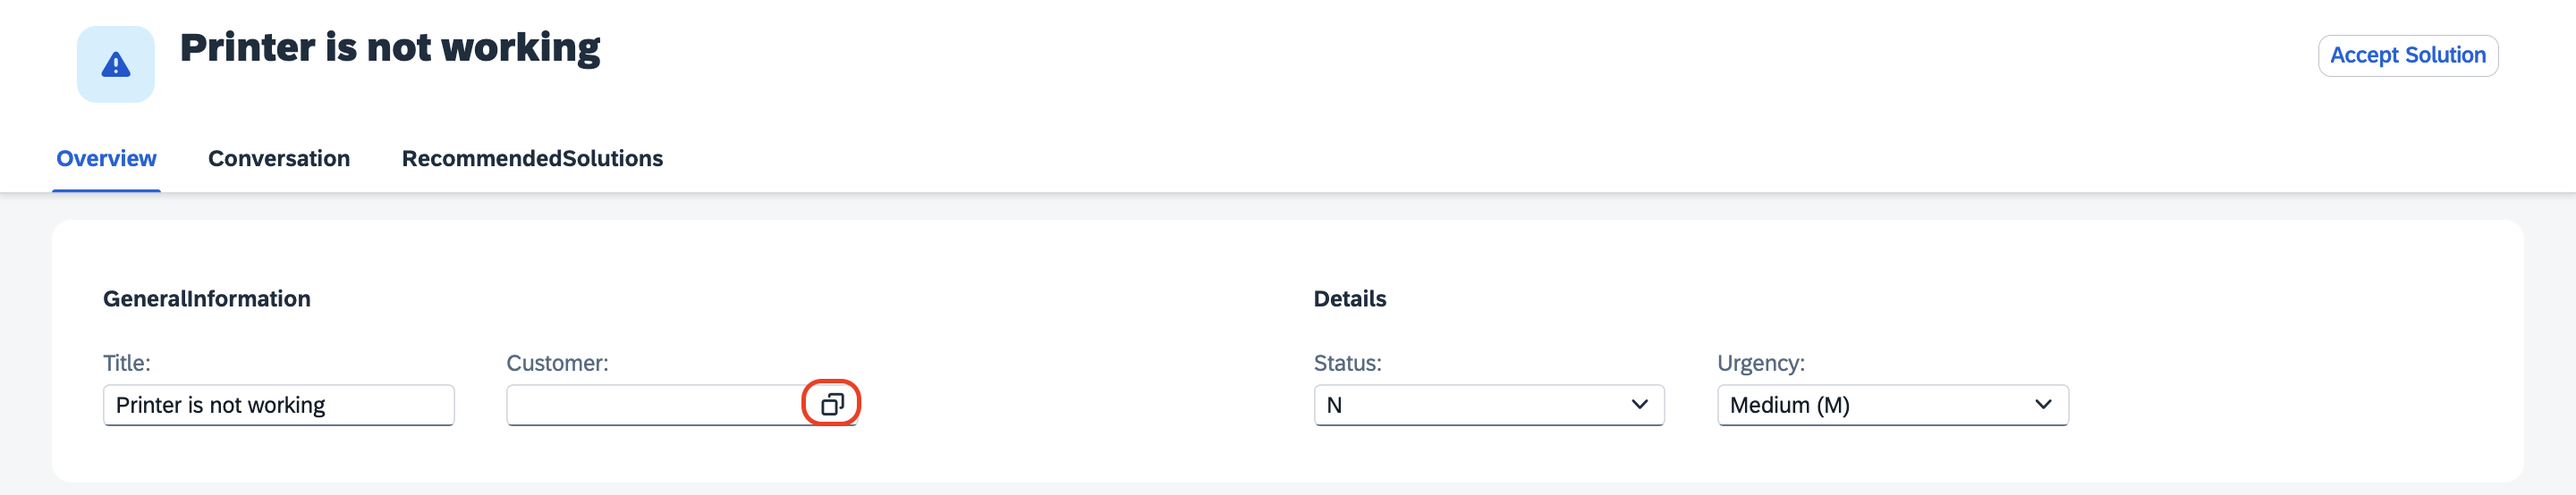
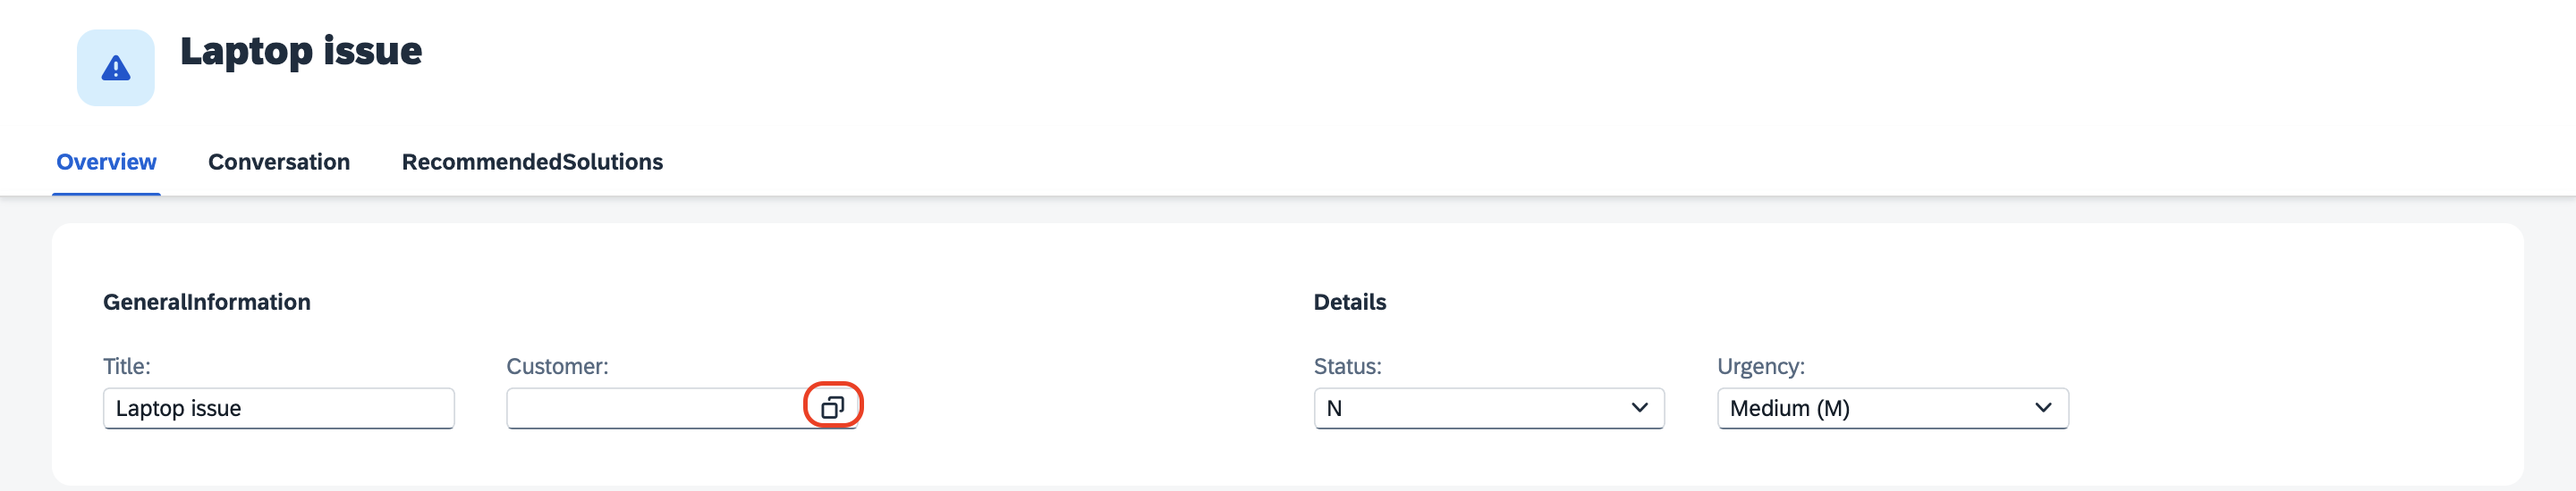
Document updates

diff --git a/build-code-with-ai-capability/document/e2e-testing.md b/build-code-with-ai-capability/document/e2e-testing.md
@@ -16,13 +16,14 @@ cds watch --profile hybrid
 
     ![request](../images/extend-service/send-req.png)
 
-> In the terminal, you can see the data from Incidents.csv file is getting trained, please wait for sometime. you will see the Response as 200. 
+> In the terminal, you can see the data from `Incidents.csv` file is getting stored. Please wait for sometime, until all the data gets stored.
+![request](../images/others/stored.png)
 
-3. Once completed, you will see the Response as 200.
+3. Once its completed, you will get the Response as **200**.
 
-    to be updated.
+    ![request](../images/extend-service/success.png)
 
-4. Go back to the terminal where the application is running, click on the url where the localhost is running
+4. In the terminal, scroll up to find the application running details. Click on the url where the localhost is running to access the application.
 
     ![terminal](../images/extend-service/localhost.png)
 
@@ -49,7 +50,7 @@ cds watch --profile hybrid
 
 4. Fill in the incident details:
 
-    1. In the **Title** field, enter **Printer is not working**.
+    1. In the **Title** field, enter **Laptop issue**.
     
     2. In the **Customer** dropdown menu, select a customer of your choice.
 
@@ -59,19 +60,21 @@ cds watch --profile hybrid
 
     4. Under **Conversation**, click on **Create**.
 
-    5. Enter the Message as **Paper is not printing**.
+        ![testing](../images/teste2e/convocreate.png)
+
+    5. Enter the Message as **Laptop is too slow**.
 
     6. Click on **Create**.
 
-        ![testing](../images/teste2e/createinobject.png)
+        ![testing](../images/teste2e/create1.png)
 
 5. Under **Recommended Solutions**, you will be able to see the solutions with the confidence score.
 
-    ![testing](../images/teste2e/recommend.png)
+    ![testing](../images/teste2e/recommended.png)
 
-6. Click on **Accept Solution**.
+6. Click on **Accept Solution** which you find meaningful and with highest Confidence Score.
 
-    ![testing](../images/teste2e/accept1.png)
+    ![testing](../images/teste2e/accept3.png)
 
 7. In the dropdown, click on **Yes**, if the recommended solution worked. And click on **Accept Solution** again.
 
@@ -80,5 +83,9 @@ cds watch --profile hybrid
 8. You will get a notification as **Data added successfully!**
 
     ![testing](../images/teste2e/data-saved.png)
+
+9. If you want to check the detailed solution, click on **Detailed Solution**, which gives a detailed step by step solution for the issue.
+
+    ![testing](../images/teste2e/detailed.png)
 
 ## Go back to the [Home Page](../../build-code-with-ai-capability/README.md#optional-exercise-3-deploy-in-sap-btp-cloud-foundry-runtime) to deploy to the Cloud Foundry Runtime.

diff --git a/build-code-with-ai-capability/document/create-full-stack-project.md b/build-code-with-ai-capability/document/create-full-stack-project.md
@@ -40,9 +40,18 @@ This section explains how to access the SAP Build lobby and create a full-stack 
 
     ![project-created](../../build-code/images/create-full-stack-project/new-review.png)
 
-8. Wait for the project to get created. Once it's created, click the project, which opens in a new tab.
+8. Wait for the project to get created. Once it's created, click on the project, which opens in a new tab.
 
     ![project-created](../../build-code/images/create-full-stack-project/project_created.png)
+
+9. Once the project is open, it loads the storyboard. Verify your storyboard looks like below.
+ 
+    ![project-storyboard](../images/others/storyboard.png)
+
+> [!Note]
+> If you accidentally closed the storyboard, you can open from Project Overview icon from the left tiles bar.
+![project-storyboard](../images/others/open-sb.png)
+
 
 ## Next Step
 

diff --git a/build-code-with-ai-capability/document/fiori-ui.md b/build-code-with-ai-capability/document/fiori-ui.md
@@ -10,6 +10,9 @@ You have created custom logic following the steps at [Create Backend Logic with 
 
 1. In Joule, start typing ```/fiori``` and select **/fiori-gen-cap-ui** from the suggestions.
 
+    > [!Note]
+    > If you are not able to find the `/fiori-gen-cap-ui`, please refresh the page.
+
     ![fiori-ui](../../build-code/images/fiori-ui/ui_suggestion.png)
 
 2. Use the following prompt to create a user interface.

diff --git a/build-code-with-ai-capability/document/add-dependency.md b/build-code-with-ai-capability/document/add-dependency.md
@@ -15,6 +15,9 @@
 },
 ```
 
+Once you have added the packages, the final package.json looks like below.
+![package](../images/extend-service/package.png)
+
 > [!Tip]
 > These packages are needed to enable AI integration, text processing, and file handling within the CAP application.
 > 
